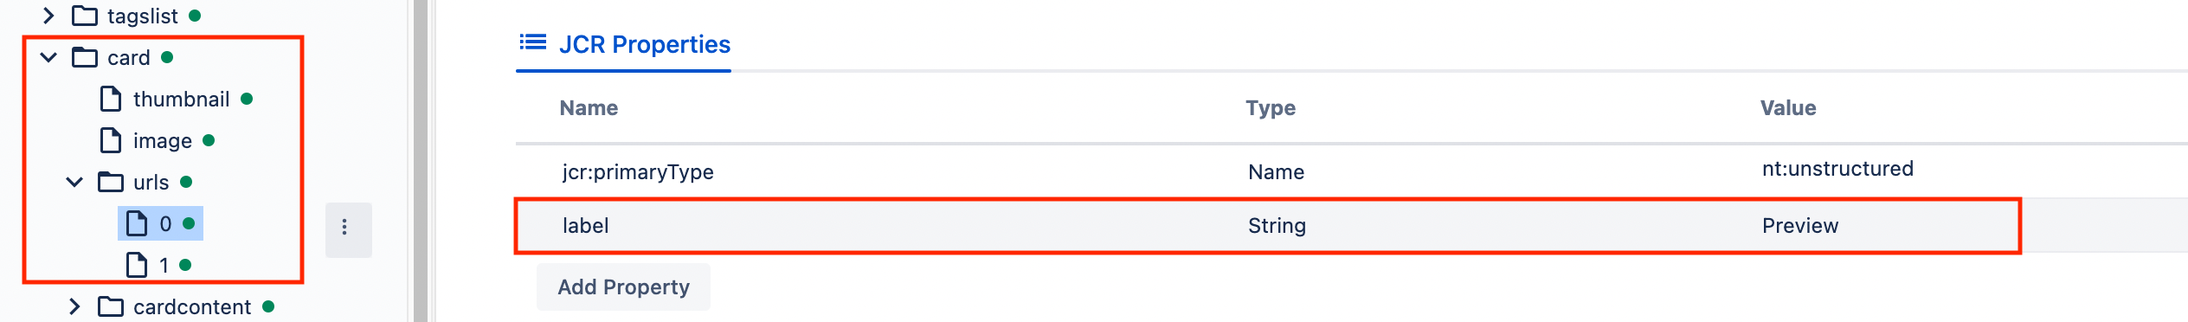
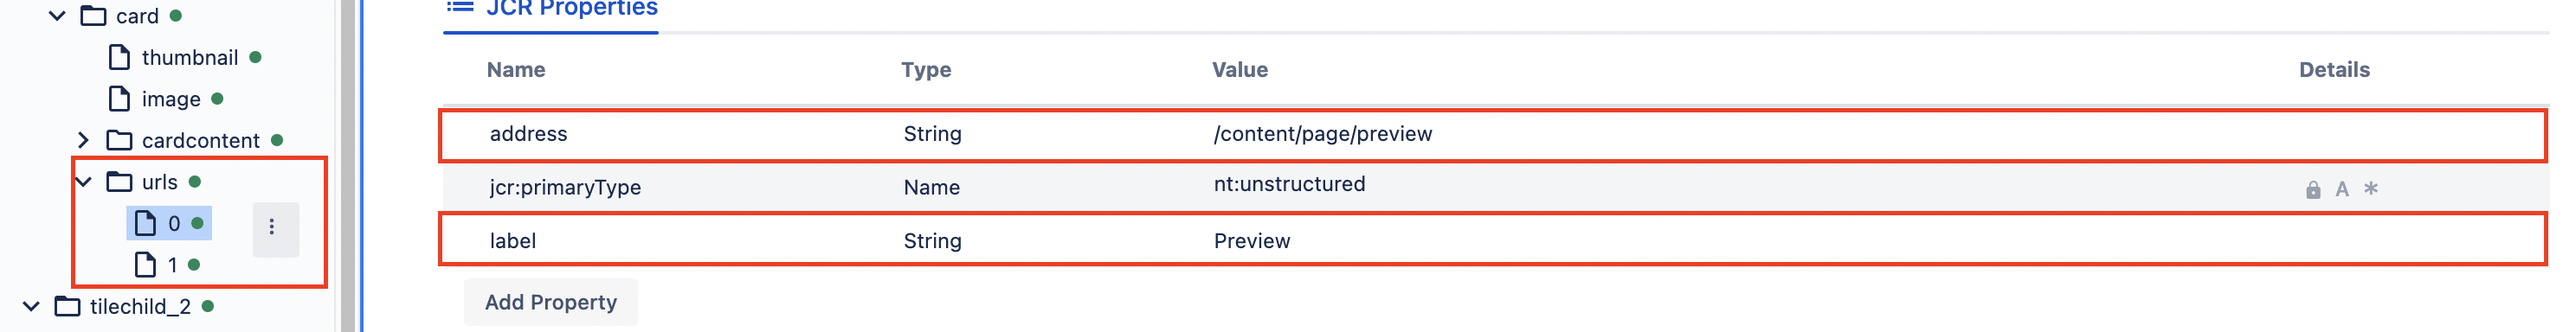
Improve custom validation documentation

diff --git a/docs/docs/developers/development/dialogs/index.md b/docs/docs/developers/development/dialogs/index.md
@@ -105,6 +105,11 @@ In above example, the `alt` property is saved as an image property from the head
     "sling:resourceType": "wcm/dialogs/components/textfield",
     "name": "label",
     "label": "Label"
+  },
+  "addressField": {
+    "sling:resourceType": "wcm/dialogs/components/pathpicker",
+    "name": "address",
+    "label": "URL"
   }
 }
 ```
@@ -112,10 +117,6 @@ In above example, the `alt` property is saved as an image property from the head
 
 ## Validation
 Validation in dialog fields is used to verify if the value meets the criteria of the particular field. There are two levels:
-
-### FrontEnd validation
-Front End validation is done by Atlaskit by default, if the submitted value is obviously incorrect, like a non-number value in NumberField. You can find more details [here](https://atlassian.design/components).
-![](dialog-frontend-validation.png)
 
 ### BackEnd validation
 WebSight supports the validation of dialog values on BackEnd side. If the value is incorrect, then it won’t be saved and the dialog can’t be submitted. The author will see a proper error message.
